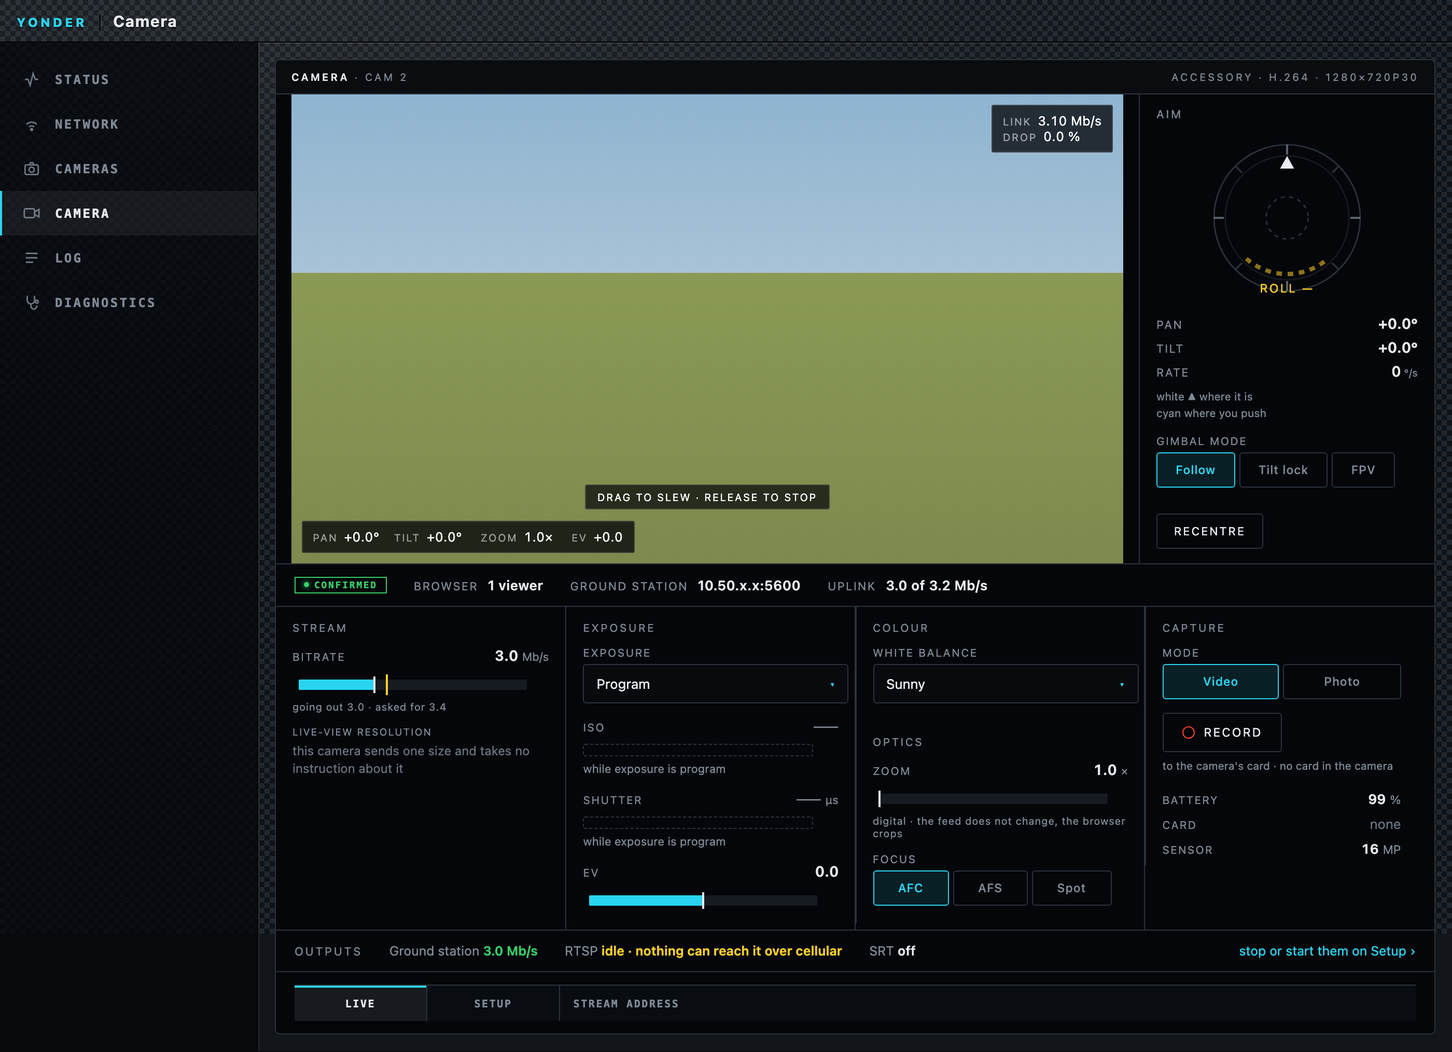
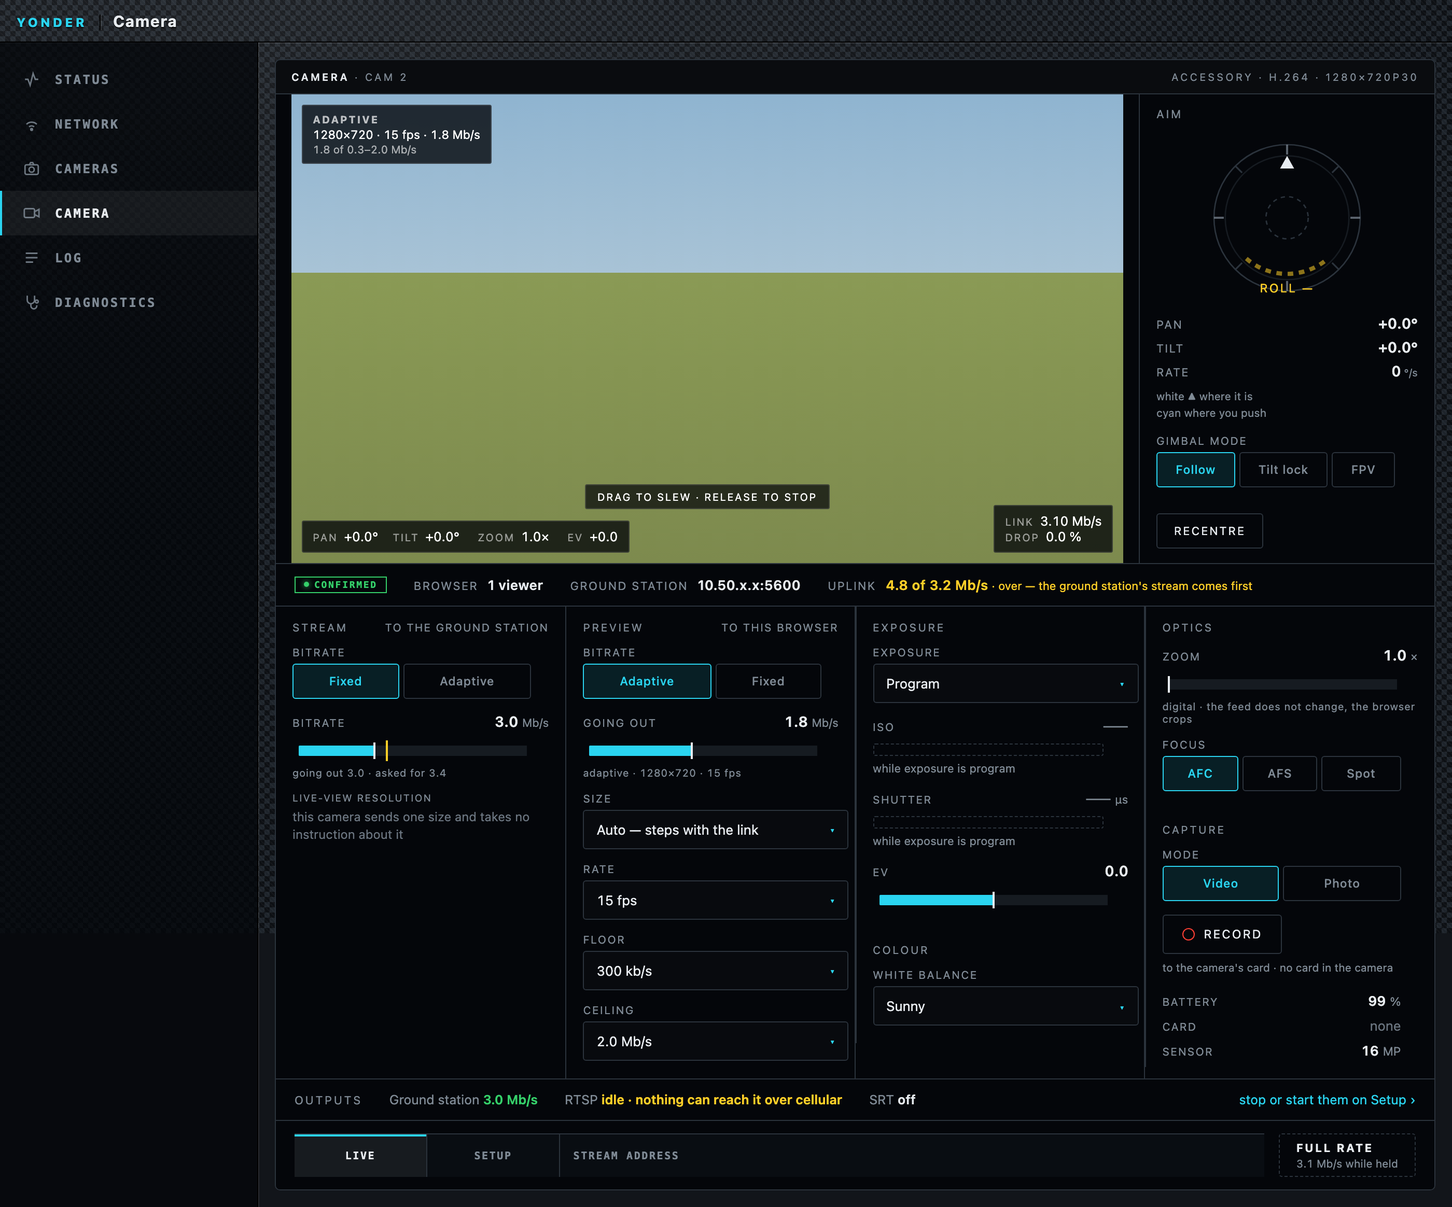
docs(console): the mockup gains the preview's controls, and the picture wears its state
Two encodes, each with a mode: the stream to the ground station fixed by
default, the preview to this browser adaptive by default with a floor, a
ceiling and a Size picker whose Auto steps down a ladder with the link and
whose other rungs hold a size while the bitrate keeps adapting.

The picture carries its own state as an overlay — adaptive, at the floor,
held, full rate, stills — rather than in the strip beneath it, because in
Cockpit the picture is there and the deck is not. A step down the ladder
shows a brief line. FULL RATE returns to the rail. The uplink in the strip
counts both encodes and says so when it is over.

The harness can switch the link between good, poor and lost so every state
can be seen. Nothing measures the link yet; R-VID-07 is unbuilt.

diff --git a/docs/console/design/instrument-library/gallery/deck.js b/docs/console/design/instrument-library/gallery/deck.js
@@ -8,6 +8,7 @@ import AimDial from "./DraftAimDial.vue";
 import Picture from "./DraftPicture.vue";
 import SoftKeys from "../../../../packages/node-red-dashboard-2-yonder/src/ui/YonderSoftKeys.vue";
 import Annunciator from "../../../../packages/node-red-dashboard-2-yonder/src/ui/YonderAnnunciator.vue";
+import HoldKey from "../../../../packages/node-red-dashboard-2-yonder/src/ui/YonderHoldKey.vue";
 import TextField from "./DraftTextField.vue";
 import { ELP, POCKET2 } from "./cameras.js";
 
@@ -21,7 +22,7 @@ function palette () {
 }
 
 const COLUMNS = [
-  ["stream", "Stream"], ["exposure", "Exposure"], ["colour", "Colour"],
+  ["stream", "Stream"], ["preview", "Preview"], ["exposure", "Exposure"], ["colour", "Colour"],
   ["optics", "Optics"], ["rendering", "Rendering"], ["capture", "Capture"],
   ["housekeeping", "Housekeeping"], ["aim", "Aim"],
 ];
@@ -32,7 +33,7 @@ const COLUMNS = [
 export const DraftDeck = defineComponent({
   name: "DraftDeck",
   props: { camera: { type: String, default: "elp" }, mode: { type: String, default: "live" },
-           showUnproven: { type: Boolean, default: false } },
+           showUnproven: { type: Boolean, default: false }, link: { type: String, default: "good" } },
   setup (props) {
     const cam = props.camera === "pocket2" ? POCKET2 : ELP;
     const v = reactive(Object.fromEntries(
@@ -40,13 +41,38 @@ export const DraftDeck = defineComponent({
     const aim = reactive({ pan: 0, tilt: 0, slewPan: 0, slewTilt: 0 });
     const outputs = reactive({ rtp: "On", rtsp: "On", srt: "Off" });
     const bitrate = ref(3.0), commanded = ref(3.4), recording = ref(false);
-    const name = ref(cam.name); const flash = ref(0);
+    const name = ref(cam.name); const flash = ref(0); const fullRate = ref(false);
     const pal = ref(palette());
-    return { cam, v, aim, outputs, bitrate, commanded, recording, name, flash, pal,
+    return { cam, v, aim, outputs, bitrate, commanded, recording, name, flash, fullRate, pal,
              refresh: () => { pal.value = palette(); } };
   },
   mounted () { this.refresh(); },
   watch: { theme () { this.$nextTick(this.refresh); } },
+  computed: {
+    preview () {
+      const v = this.v, link = this.link;
+      const held = v.previewSize && v.previewSize !== "auto";
+      const floor = Number(v.previewFloor) / 1000, ceil = Number(v.previewCeiling) / 1000;
+      if (this.fullRate) return { tone: "select", head: "FULL RATE", size: "1280×720", rate: 30, mbps: 3.1,
+        detail: "while held", step: "" };
+      if (link === "lost") return { tone: "bad", head: "STILLS", size: "640×360", rate: 0, mbps: 0.012,
+        detail: "every 2 s · live video could not be kept up", step: "fell back to stills — no frame for 6 s" };
+      if (v.previewMode === "Fixed") return { tone: "label", head: "FIXED", size: held ? v.previewSize.replace("x", "×") : "640×360",
+        rate: Number(v.previewRate), mbps: 0.4, detail: "", step: "" };
+      if (held) return { tone: link === "poor" ? "waiting" : "label", head: "HELD", size: v.previewSize.replace("x", "×"),
+        rate: Number(v.previewRate), mbps: link === "poor" ? floor : Math.min(ceil, 1.2),
+        detail: link === "poor" ? `at the floor · ${floor.toFixed(1)} of ${floor.toFixed(1)}–${ceil.toFixed(1)} Mb/s · 1.2 s round trip` : `size held · bitrate adapting ${floor.toFixed(1)}–${ceil.toFixed(1)}`, step: "" };
+      if (link === "poor") return { tone: "waiting", head: "AT THE FLOOR", size: "640×360", rate: Number(v.previewRate),
+        mbps: floor, detail: `${floor.toFixed(1)} of ${floor.toFixed(1)}–${ceil.toFixed(1)} Mb/s · 1.2 s round trip`,
+        step: "dropped to 640×360 — the link could not carry 720p" };
+      return { tone: "label", head: "ADAPTIVE", size: "1280×720", rate: Number(v.previewRate), mbps: Math.min(ceil, 1.8),
+        detail: `${Math.min(ceil, 1.8).toFixed(1)} of ${floor.toFixed(1)}–${ceil.toFixed(1)} Mb/s`, step: "" };
+    },
+    uplink () {
+      const total = this.bitrate + this.preview.mbps;
+      return { total, cap: 3.2, over: total > 3.2 };
+    },
+  },
   methods: {
     /* A control whose gate is not on Manual is gated by it (R-UI-21). */
     stateOf (key, c) {
@@ -131,7 +157,7 @@ export const DraftDeck = defineComponent({
 
     const [expLabel, expValue] = cam.exposureReadout ? cam.exposureReadout(this.v) : ["", ""];
     const picture = h(Picture, {
-      zoom: this.v.zoom ?? 0, expLabel, expValue,
+      zoom: this.v.zoom ?? 0, expLabel, expValue, preview: this.preview,
       pan: this.aim.pan, tilt: this.aim.tilt,
       slewPan: this.aim.slewPan, slewTilt: this.aim.slewTilt, aimable: aimLive,
       recording: this.recording,
@@ -143,10 +169,13 @@ export const DraftDeck = defineComponent({
       h(Annunciator, { id: "deck-ann", props: { source: "payload" } }),
       h("span", { class: "d-fact2" }, ["Browser ", h("b", "1 viewer")]),
       h("span", { class: "d-fact2" }, ["Ground station ", h("b", "10.50.x.x:5600")]),
-      h("span", { class: "d-fact2" }, ["Uplink ", h("b", "3.0 of 3.2 Mb/s")]),
+      h("span", { class: ["d-fact2", { over: this.uplink.over }] }, ["Uplink ",
+        h("b", `${this.uplink.total.toFixed(1)} of ${this.uplink.cap.toFixed(1)} Mb/s`),
+        this.uplink.over ? h("em", " · over — the ground station's stream comes first") : null]),
     ]);
 
-    const bitrate = h(SetBar, { label: "Bitrate", unit: "Mb/s", min: 0.5, max: 8, step: 0.1, precision: 1,
+    const bitrate = h(SetBar, { label: this.v.streamMode === "Adaptive" ? "Going out" : "Bitrate",
+      unit: "Mb/s", min: 0.5, max: 8, step: 0.1, precision: 1,
       actual: this.bitrate, commanded: this.commanded,
       fine: `going out ${this.bitrate.toFixed(1)} · asked for ${this.commanded.toFixed(1)}`,
       onSet: (x) => { this.commanded = x; } });
@@ -165,15 +194,25 @@ export const DraftDeck = defineComponent({
     const cols = COLUMNS.filter(([id]) => id !== "aim").map(([id, title]) => {
       const entries = Object.entries(cam.controls)
         .filter(([, c]) => c.column === id && (setup || !c.setup));
-      if (id === "stream") entries.unshift(["__bitrate", { kind: "__bitrate" }]);
+      if (id === "stream") entries.splice(1, 0, ["__bitrate", { kind: "__bitrate" }]);
+      if (id === "preview") {
+        const adaptive = this.v.previewMode === "Adaptive";
+        const keep = entries.filter(([k]) => adaptive || (k !== "previewFloor" && k !== "previewCeiling"));
+        entries.length = 0; entries.push(...keep);
+        entries.splice(1, 0, ["__pbar", { kind: "__pbar" }]);
+      }
       if (id === "stream" && setup) entries.unshift(["__name", { kind: "__name" }]);
       if (!entries.length) return null;
-      return h(Column, { title }, () => [
+      const note = id === "stream" ? "to the ground station" : id === "preview" ? "to this browser" : "";
+      return h(Column, { title, note, noteTone: "label" }, () => [
         ...entries.map(([k, c]) => k === "__name"
           ? h(TextField, { label: "Name", modelValue: this.name, placeholder: "Cam 1", max: 24,
               hint: "shown on this page, in the camera list and on the stream address",
               "onUpdate:modelValue": (x) => { this.name = x; } })
-          : k === "__bitrate" ? bitrate : this.draw(k, c)),
+          : k === "__bitrate" ? bitrate
+          : k === "__pbar" ? h(SetBar, { label: "Going out", unit: "Mb/s", min: 0, max: 4, step: 0.1, precision: 1,
+              actual: this.preview.mbps, fine: `${this.preview.head.toLowerCase()} · ${this.preview.size} · ${this.preview.rate || "—"} fps` })
+          : this.draw(k, c)),
         id === "capture" && cam.readouts ? h(Readout, { rows: cam.readouts }) : null,
       ]);
     }).filter(Boolean);
@@ -210,7 +249,14 @@ export const DraftDeck = defineComponent({
            h("div", { class: "d-rail" }, [h(SoftKeys, { id: "deck-keys", props: { passthru: false, keys } })])]
         : [h("div", { class: "d-stage" }, [h("div", { class: "d-stage__pic" }, [picture]), aimPanel]),
            strip, h("div", { class: "d-cols" }, cols.map((c) => h("div", {}, [c]))), outLine,
-           h("div", { class: "d-rail" }, [h(SoftKeys, { id: "deck-keys", props: { passthru: false, keys } })])]),
+           h("div", { class: "d-rail d-rail--two" }, [
+             h(SoftKeys, { id: "deck-keys", props: { passthru: false, keys } }),
+             h("div", { class: ["d-hold", { on: this.fullRate }],
+               onPointerdown: () => { this.fullRate = true; }, onPointerup: () => { this.fullRate = false; },
+               onPointerleave: () => { this.fullRate = false; } }, [
+               h("b", "Full rate"), h("span", this.fullRate ? "1280×720 · 3.1 Mb/s · release to drop back" : "3.1 Mb/s while held"),
+             ]),
+           ])]),
     ]);
   },
 });

diff --git a/docs/console/design/instrument-library/gallery/cameras.js b/docs/console/design/instrument-library/gallery/cameras.js
@@ -12,6 +12,22 @@ export const ELP = {
   aim: { state: "advertised", proven: true,
     reason: "Listed ±180° in 1° steps. Fifteen values sent, every one acknowledged, the frame never moved." },
   controls: {
+    streamMode: { state: "present", proven: true, kind: "seg", label: "Bitrate", column: "stream",
+      options: ["Fixed", "Adaptive"], value: "Fixed" },
+    previewMode: { state: "present", proven: true, kind: "seg", label: "Bitrate", column: "preview",
+      options: ["Adaptive", "Fixed"], value: "Adaptive" },
+    previewSize: { state: "present", proven: true, kind: "pick", label: "Size", column: "preview",
+      value: "auto", options: [
+        { value: "auto", label: "Auto — steps with the link" },
+        { value: "1280x720", label: "1280×720 — hold" },
+        { value: "854x480", label: "854×480 — hold" },
+        { value: "640x360", label: "640×360 — hold" }] },
+    previewRate: { state: "present", proven: true, kind: "pick", label: "Rate", column: "preview",
+      value: "15", options: [{ value: "30", label: "30 fps" }, { value: "15", label: "15 fps" }, { value: "10", label: "10 fps" }] },
+    previewFloor: { state: "present", proven: true, kind: "pick", label: "Floor", column: "preview",
+      value: "300", options: [{ value: "150", label: "150 kb/s" }, { value: "300", label: "300 kb/s" }, { value: "500", label: "500 kb/s" }] },
+    previewCeiling: { state: "present", proven: true, kind: "pick", label: "Ceiling", column: "preview",
+      value: "2000", options: [{ value: "1000", label: "1.0 Mb/s" }, { value: "2000", label: "2.0 Mb/s" }, { value: "4000", label: "4.0 Mb/s" }] },
     resolution: { state: "present", proven: true, kind: "pick", label: "Resolution", column: "stream",
       value: "1280x720", options: [
         { value: "1920x1080", label: "1920×1080 · 30 fps" },
@@ -65,6 +81,22 @@ export const POCKET2 = {
   name: "Cam 2", bus: "USB accessory", spec: "Accessory · H.264 · 1280×720p30",
   aim: { state: "present", proven: true, reason: "" },
   controls: {
+    streamMode: { state: "present", proven: true, kind: "seg", label: "Bitrate", column: "stream",
+      options: ["Fixed", "Adaptive"], value: "Fixed" },
+    previewMode: { state: "present", proven: true, kind: "seg", label: "Bitrate", column: "preview",
+      options: ["Adaptive", "Fixed"], value: "Adaptive" },
+    previewSize: { state: "present", proven: true, kind: "pick", label: "Size", column: "preview",
+      value: "auto", options: [
+        { value: "auto", label: "Auto — steps with the link" },
+        { value: "1280x720", label: "1280×720 — hold" },
+        { value: "854x480", label: "854×480 — hold" },
+        { value: "640x360", label: "640×360 — hold" }] },
+    previewRate: { state: "present", proven: true, kind: "pick", label: "Rate", column: "preview",
+      value: "15", options: [{ value: "30", label: "30 fps" }, { value: "15", label: "15 fps" }, { value: "10", label: "10 fps" }] },
+    previewFloor: { state: "present", proven: true, kind: "pick", label: "Floor", column: "preview",
+      value: "300", options: [{ value: "150", label: "150 kb/s" }, { value: "300", label: "300 kb/s" }, { value: "500", label: "500 kb/s" }] },
+    previewCeiling: { state: "present", proven: true, kind: "pick", label: "Ceiling", column: "preview",
+      value: "2000", options: [{ value: "1000", label: "1.0 Mb/s" }, { value: "2000", label: "2.0 Mb/s" }, { value: "4000", label: "4.0 Mb/s" }] },
     // The SDK's four live-view handlers are stubs that never send. The feed is
     // a fixed pipe, and saying so is more use than a picker that does nothing.
     resolution: { state: "not-offered", proven: true, label: "Live-view resolution", column: "stream",

diff --git a/docs/console/design/instrument-library/gallery/DraftPicture.vue b/docs/console/design/instrument-library/gallery/DraftPicture.vue
@@ -7,6 +7,14 @@
        @pointerup="up" @pointercancel="up" @pointerleave="up">
     <div class="d-sky" /><div class="d-gnd" />
     <div v-if="recording" class="d-rec"><i />REC 00:13:47</div>
+    <!-- what this picture is, right now. On the picture and not in the strip,
+         because in Cockpit the picture is there and the deck is not. -->
+    <div v-if="preview" class="d-state" :class="'tone-' + preview.tone" :style="{ top: recording ? '48px' : '10px' }">
+      <b>{{ preview.head }}</b>
+      <span>{{ preview.size }}<template v-if="preview.rate"> · {{ preview.rate }} fps</template> · {{ preview.mbps.toFixed(preview.mbps < 0.1 ? 3 : 1) }} Mb/s</span>
+      <em v-if="preview.detail">{{ preview.detail }}</em>
+    </div>
+    <div v-if="preview && preview.step" class="d-step">{{ preview.step }}</div>
 
     <svg v-if="aimable" class="d-hud" viewBox="0 0 940 300" preserveAspectRatio="none">
       <!-- the orb, and only the orb: where you are pushing, how hard -->
@@ -46,7 +54,8 @@ export default {
     pan: { type: Number, default: 0 }, tilt: { type: Number, default: 0 },
     slewPan: { type: Number, default: 0 }, slewTilt: { type: Number, default: 0 },
     aimable: { type: Boolean, default: false },
-    recording: { type: Boolean, default: false }
+    recording: { type: Boolean, default: false },
+    preview: { type: Object, default: null }
   },
   emits: ['slew', 'stop'],
   data: () => ({ pushing: false, hx: 470, hy: 150, k: 0, ox: 470, oy: 150 }),
@@ -98,11 +107,24 @@ export default {
   background:rgba(4,6,10,.78); border:1px solid var(--yonder-bad,#ff4034);
   color: var(--yonder-bad,#ff4034); pointer-events:none; }
 .d-rec i { width:7px; height:7px; border-radius:50%; background: var(--yonder-bad,#ff4034); }
+.d-state { position:absolute; z-index:6; left:10px; display:flex; flex-direction:column; gap:2px;
+  padding:7px 10px; border-radius:2px; background:rgba(4,6,10,.8); border:1px solid rgba(255,255,255,.12);
+  font-size:11.5px; font-variant-numeric:tabular-nums; color:#fff; pointer-events:none; max-width:360px; }
+.d-state b { font-size:10px; letter-spacing:.14em; }
+.d-state em { font-style:normal; font-size:10.5px; color:rgba(255,255,255,.62); }
+.d-state.tone-waiting { border-color: var(--yonder-waiting,#ffcf28); } .d-state.tone-waiting b { color: var(--yonder-waiting,#ffcf28); }
+.d-state.tone-bad { border-color: var(--yonder-bad,#ff4034); } .d-state.tone-bad b { color: var(--yonder-bad,#ff4034); }
+.d-state.tone-select { border-color: var(--yonder-select,#2ad4f0); } .d-state.tone-select b { color: var(--yonder-select,#2ad4f0); }
+.d-state.tone-label b { color:rgba(255,255,255,.7); }
+/* the brief line when it steps */
+.d-step { position:absolute; z-index:6; right:10px; top:10px; padding:6px 12px;
+  border-radius:2px; font-size:11.5px; color:#fff; background:rgba(4,6,10,.82);
+  border:1px solid var(--yonder-waiting,#ffcf28); pointer-events:none; white-space:nowrap; }
 .d-hud { position:absolute; inset:0; width:100%; height:100%; pointer-events:none; }
 .d-osd { position:absolute; z-index:5; background:rgba(4,6,10,.78); border:1px solid rgba(255,255,255,.12);
   border-radius:2px; padding:7px 10px; font-size:12.5px; font-variant-numeric:tabular-nums;
   color:#fff; pointer-events:none; }
-.d-osd.tr { top:10px; right:10px; } .d-osd.bl { left:10px; bottom:10px; }
+.d-osd.tr { bottom:10px; right:10px; } .d-osd.bl { left:10px; bottom:10px; }
 .d-osd .k { font-size:10px; letter-spacing:.12em; color:rgba(255,255,255,.55); margin-right:6px; }
 .d-osd .k.sp { margin-left:14px; }
 .d-hint, .d-note { position:absolute; z-index:5; left:50%; transform:translateX(-50%);

diff --git a/docs/console/design/instrument-library/gallery/gallery.css b/docs/console/design/instrument-library/gallery/gallery.css
@@ -24,12 +24,6 @@ body { margin:0; background: var(--yonder-background, #0a0c0f); color: var(--yon
   font-size:10px; letter-spacing:.2em; text-transform:uppercase; color: var(--yonder-label,#7f8a95); }
 .d-placard b { color: var(--yonder-value,#fff); font-weight:600; }
 .d-display { background: var(--yonder-display,#04060a); border-top:1px solid var(--yonder-divider,#2b333c); }
-.d-osd { position:absolute; background:rgba(4,6,10,.78); border:1px solid rgba(255,255,255,.12);
-  border-radius:2px; padding:6px 9px; font-size:11px; font-variant-numeric:tabular-nums;
-  color:#fff; letter-spacing:.02em; }
-.d-osd.tr { top:10px; right:10px; } .d-osd.bl { left:10px; bottom:10px; }
-.d-osd .k { font-size:9px; letter-spacing:.12em; color:rgba(255,255,255,.55); margin-right:6px; }
-.d-osd .k.sp { margin-left:14px; }
 .d-strip { display:flex; gap:22px; align-items:center; flex-wrap:wrap; padding:9px 15px;
   border-top:1px solid var(--yonder-divider,#2b333c); }
 .d-cols { display:flex; border-top:1px solid var(--yonder-divider,#2b333c); }
@@ -171,3 +165,14 @@ body { margin:0; background: var(--yonder-background, #0a0c0f); color: var(--yon
   padding:0 16px; min-height:34px; border-radius:3px; cursor:pointer; background:transparent;
   border:1px solid var(--yonder-divider,#2b333c); color: var(--yonder-value,#fff); }
 .d-recentre:hover { border-color: var(--yonder-select,#2ad4f0); color: var(--yonder-select,#2ad4f0); }
+
+.d-fact2.over b { color: var(--yonder-waiting,#ffcf28); }
+.d-fact2 em { font-style:normal; text-transform:none; letter-spacing:0; font-size:11px; color: var(--yonder-waiting,#ffcf28); }
+.d-rail--two { display:flex; gap:14px; align-items:stretch; }
+.d-rail--two > :first-child { flex:1; }
+.d-hold { flex:0 0 auto; display:flex; flex-direction:column; justify-content:center; gap:3px; padding:6px 16px;
+  border:1px dashed var(--yonder-divider,#2b333c); border-radius:3px; cursor:pointer; user-select:none; touch-action:none; }
+.d-hold b { font-size:11px; letter-spacing:.14em; text-transform:uppercase; color: var(--yonder-value,#fff); }
+.d-hold span { font-size:10.5px; color: var(--yonder-label,#7f8a95); font-variant-numeric:tabular-nums; }
+.d-hold.on { border-style:solid; border-color: var(--yonder-select,#2ad4f0); }
+.d-hold.on b { color: var(--yonder-select,#2ad4f0); }

diff --git a/docs/console/design/instrument-library/gallery/main.js b/docs/console/design/instrument-library/gallery/main.js
@@ -38,6 +38,7 @@ const App = defineComponent({
     const camera = ref("elp");
     const page = ref("camera-live");
     const unproven = ref(false);
+    const link = ref("good");
     const setTheme = (t) => {
       theme.value = t;
       let link = document.getElementById("theme");
@@ -73,6 +74,8 @@ const App = defineComponent({
           ].map(([k, lbl]) => h("button", {
             class: { on: camera.value === k }, onClick: () => { camera.value = k; },
           }, lbl))),
+          h("div", { class: "g-switch" }, [["good", "link good"], ["poor", "link poor"], ["lost", "link lost"]].map(([k, lbl]) =>
+            h("button", { class: { on: link.value === k }, onClick: () => { link.value = k; } }, lbl))),
           h("div", { class: "g-switch" }, [h("button", {
             class: { on: unproven.value }, onClick: () => { unproven.value = !unproven.value },
           }, "mark unproven")]),
@@ -112,7 +115,7 @@ const App = defineComponent({
             key: camera.value + page.value,
             theme: theme.value, camera: camera.value,
             mode: page.value === "camera-setup" ? "setup" : "live",
-            showUnproven: unproven.value,
+            showUnproven: unproven.value, link: link.value,
           })]),
     ]);
   },

diff --git a/docs/console/design/instrument-library/README.md b/docs/console/design/instrument-library/README.md
@@ -43,7 +43,7 @@ page is the harness — palette, page and camera switches — not the design.
 | `gallery/DraftIndex.vue` | The Cameras page: camera rows and rejection rows |
 | `gallery/cameras.js` | The two capability reports, with `proven` recording what the bench has actually driven |
 | `gallery/deck.js` | The deck. Composes columns from the report; Live and Setup are one component in two modes |
-| `live.pocket2.*.png`, `live.elp.night.png`, `setup.elp.night.png`, `cameras.night.png` | The renders |
+| `live.pocket2.night.png`, `live.pocket2.poor.png`, `live.pocket2.day.png`, `live.elp.night.png`, `setup.elp.night.png`, `cameras.night.png`, `stage.poor.1512.png` | The renders. `poor` is the link degraded: the picture at the floor, the step line showing |
 
 ## Decisions the mockup carries that the spec does not yet
 
@@ -65,14 +65,24 @@ predates these and must be brought up to them:
   finger can still land on, 10.5 px labels. Not 44 px everywhere.
 - **Groups flow into balanced columns** rather than a grid, so a short group
   packs under a shorter one and nothing is stranded on a second row.
+- **Two encodes, each with a mode.** `STREAM · to the ground station` is Fixed
+  by default; `PREVIEW · to this browser` is Adaptive by default, with a floor,
+  a ceiling, and a Size picker whose `Auto` steps down the ladder with the link
+  and whose other rungs hold a size while the bitrate keeps adapting
+  (R-VID-07, R-VID-08, R-VID-13). In Adaptive the bar is a readout, `GOING OUT`.
+- **The picture wears its own state** — `ADAPTIVE`, `AT THE FLOOR`, `HELD`,
+  `FULL RATE`, `STILLS` — as an overlay, not in the strip beneath it, because
+  in Cockpit the picture is there and the deck is not. A step down the ladder
+  shows a brief line, top-right. `LINK · DROP` moved to the bottom-right corner.
+- **`FULL RATE` is back**, a hold-key at the right of the rail (R-VID-13).
+- **The strip's uplink counts both encodes** and turns to caution when over:
+  `3.3 of 3.2 Mb/s · over — the ground station's stream comes first` (R-VID-11).
+- The harness has a **link** switch — good / poor / lost — so the states can
+  be seen. **Nothing measures the link yet**: R-VID-07 is unbuilt, and the
+  round-trip figure is typed in.
 
 ## Known gaps in the mockup
 
-- **The browser preview has no controls.** Its size, rate and bitrate are in
-  `config.yaml` and were settable on the old Setup page; here it is a readout.
-  The stream's bitrate bar does not say which of the two encodes it is.
-- **`FULL RATE` is missing** — the hold-key that shows the full-quality stream
-  while held, built and proven on the board, is not on the rail.
 - The Cameras page's uplink bar is over capacity and drawn in the select tone.
 - Several Pocket 2 controls are drawn from command ids the bench has not
   driven: sensor size, record format, focus mode, shutter. Press **mark
